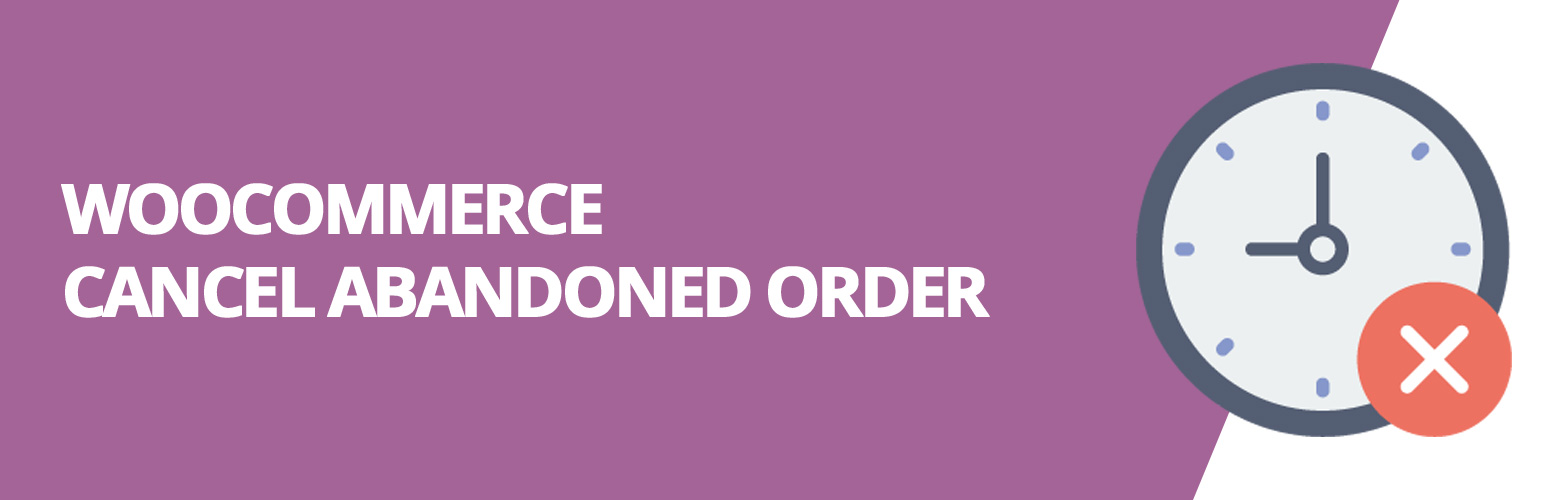
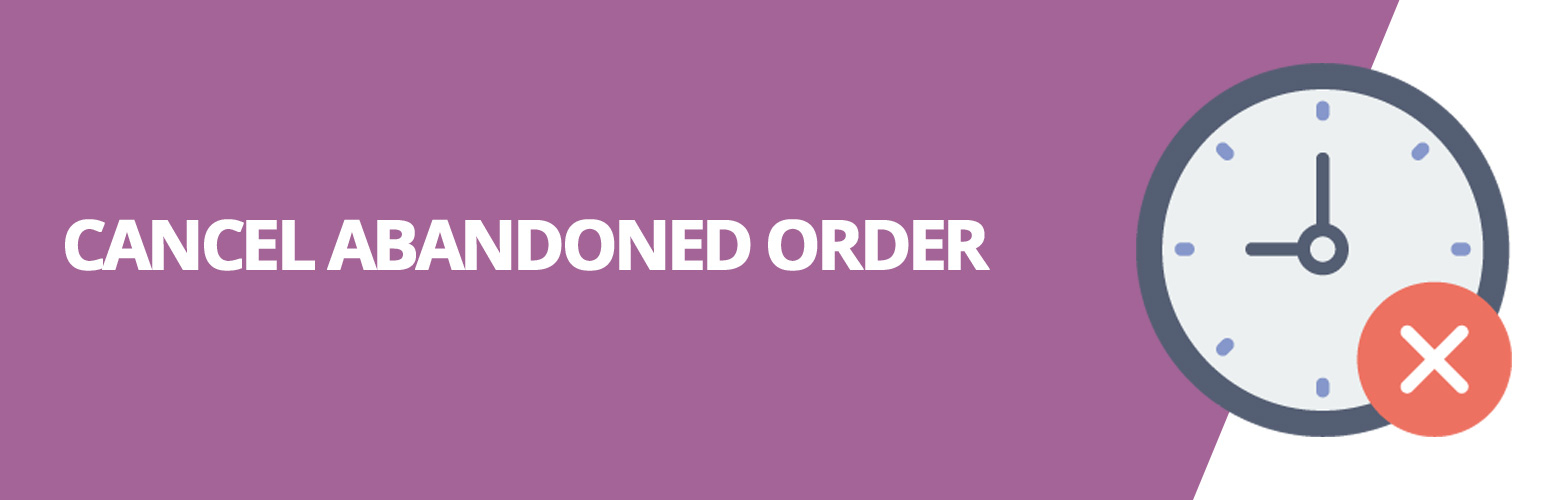
Remove trademark

Changed region(s): [[0.0311, 0.36, 0.6528, 0.66]]

diff --git a/includes/class-cao.php b/includes/class-cao.php
@@ -215,7 +215,7 @@ class CAO {
 	 * @return string
 	 */
 	private function woocao_icon() {
-		return sprintf( '<span class="woocao-icon" title="%s"></span>', esc_html__( 'WooCommerce Cancel Abandoned Order', 'woo-cancel-abandoned-order' ) );
+		return sprintf( '<span class="woocao-icon" title="%s"></span>', esc_html__( 'Cancel Abandoned Order', 'woo-cancel-abandoned-order' ) );
 	}
 
 	/**
@@ -230,7 +230,7 @@ class CAO {
 
 		$new_fields = array(
 			'woocao'         => array(
-				'title'       => esc_html__( 'WooCommerce Cancel Abandoned Order', 'woo-cancel-abandoned-order' ),
+				'title'       => esc_html__( 'Cancel Abandoned Order', 'woo-cancel-abandoned-order' ),
 				'type'        => 'title',
 				'description' => '',
 				'default'     => '',

diff --git a/includes/class-stripe.php b/includes/class-stripe.php
@@ -32,7 +32,7 @@ class Stripe {
 	 * Display a message if the user is using Stripe
 	 */
 	public function messageNewStripe() {
-		printf( '<h2>%s</h2>', esc_html__( 'WooCommerce Cancel Abandoned Order', 'woo-cancel-abandoned-order' ) );
+		printf( '<h2>%s</h2>', esc_html__( 'Cancel Abandoned Order', 'woo-cancel-abandoned-order' ) );
 		printf(
 			__( 'We have moved the settings from WOOCAO to Stripe %s', 'woo-cancel-abandoned-order' ),
 			sprintf(

diff --git a/woo-cancel-abandoned-order.php b/woo-cancel-abandoned-order.php
@@ -1,6 +1,6 @@
 <?php
 /*
-Plugin Name:		    WooCommerce Cancel Abandoned Order
+Plugin Name:		    Cancel Abandoned Order
 Plugin URI:			    https://github.com/rvola/woo-cancel-abandoned-order
 
 Description:		    Cancel "on hold" orders after a certain number of days or by hours

diff --git a/README.md b/README.md
@@ -1,4 +1,4 @@
-# WooCommerce Cancel Abandoned Order 
+# Cancel Abandoned Order 
 [![Donate](https://img.shields.io/badge/Donate-PayPal-green.svg)](https://www.paypal.me/rvola)
 
 Cancel "on hold" orders after a certain number of days or by hours
@@ -7,11 +7,11 @@ Cancel "on hold" orders after a certain number of days or by hours
 
 ## Description
 
-**WooCommerce Cancel Abandoned Order** allows you to add a small option that will take care of dealing with "abandoned" commands.
+**Cancel Abandoned Order** allows you to add a small option that will take care of dealing with "abandoned" commands.
 
 If you have check or transfer type orders for example, you will be able to set a maximum number of days or by hours to receive the payment.
 
-WooCommerce Cancel Abandoned Order, will take care of checking this and change the status of the order to "Cancel" if you have not received payment on time.
+Cancel Abandoned Order, will take care of checking this and change the status of the order to "Cancel" if you have not received payment on time.
 
 ## Installation
 
